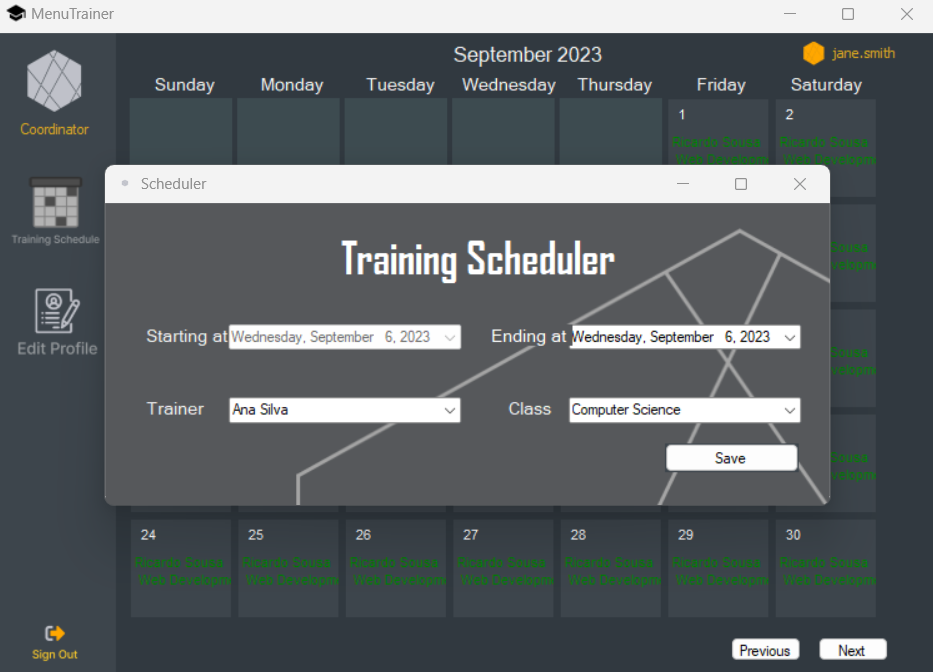
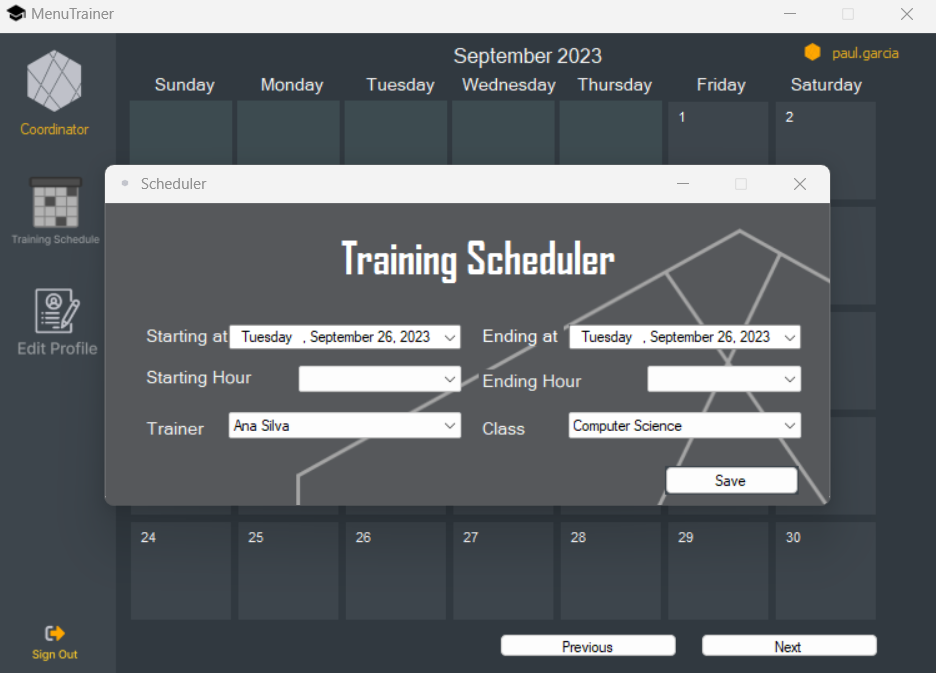
Academia de Formacao v1.0

diff --git a/README.md b/README.md
@@ -89,6 +89,10 @@ Make sure you have the required .NET Core SDK installed on your machine. You can
 <br><br>
     <img src="images/login.png" style="min-width: 80%; height: 80%; width: 80%;" alt="Logo">
 
+`sign in system`
+<br><br>
+    <img src="images/signUp.png" style="min-width: 80%; height: 80%; width: 80%;" alt="Logo">    
+
 `Main Menu`
 <br><br>
     <img src="images/menuDirectorSecretary.png" style="min-width: 80%; height: 80%; width: 80%;" alt="Logo">
@@ -97,9 +101,30 @@ Make sure you have the required .NET Core SDK installed on your machine. You can
 <br><br>
     <img src="images/dashboard.png" style="min-width: 80%; height: 80%; width: 80%;" alt="Logo">
 
+`Dashboard Hovers`
+<br><br>
+    <img src="images/DashboardHover.png" style="min-width: 80%; height: 80%; width: 80%;" alt="Logo">
+
 `Add Employee`
 <br><br>
     <img src="images/addEmployee.png" style="min-width: 80%; height: 80%; width: 80%;" alt="Logo">
+
+`Add Employee -> Director`
+<br><br>
+    <img src="images/addEmployeeDirector.png" style="min-width: 80%; height: 80%; width: 80%;" alt="Logo">
+
+`Add Employee -> Secretary`
+<br><br>
+    <img src="images/addEmployeeScretaryNormal.png" style="min-width: 80%; height: 80%; width: 80%;" alt="Logo">    
+    <img src="images/addEmployeeScretaryWithPanel.png" style="min-width: 80%; height: 80%; width: 80%;" alt="Logo">   
+
+`Add Employee -> Trainer`
+<br><br>
+    <img src="images/addEmployeeTrainer.png" style="min-width: 80%; height: 80%; width: 80%;" alt="Logo">
+
+`Add Employee -> Coordinator`
+<br><br>
+    <img src="images/addEmployeeCoordinator.png" style="min-width: 80%; height: 80%; width: 80%;" alt="Logo">
 
 `Contract Management`
 <br><br>
@@ -133,6 +158,13 @@ Make sure you have the required .NET Core SDK installed on your machine. You can
 `Calendar`
 <br><br>
     <img src="images/CalendarHover.png" style="min-width: 80%; height: 80%; width: 80%;" alt="Logo">
+
+
+>Coordinator can hover the training days to check if there ate some other scheduled training sessions.
+
+`Training Schedule`
+<br><br>
+    <img src="images/TrainingScheduler.png" style="min-width: 80%; height: 80%; width: 80%;" alt="Logo">
 
 
 >Coordinator can hover the training days to check if there ate some other scheduled training sessions.
